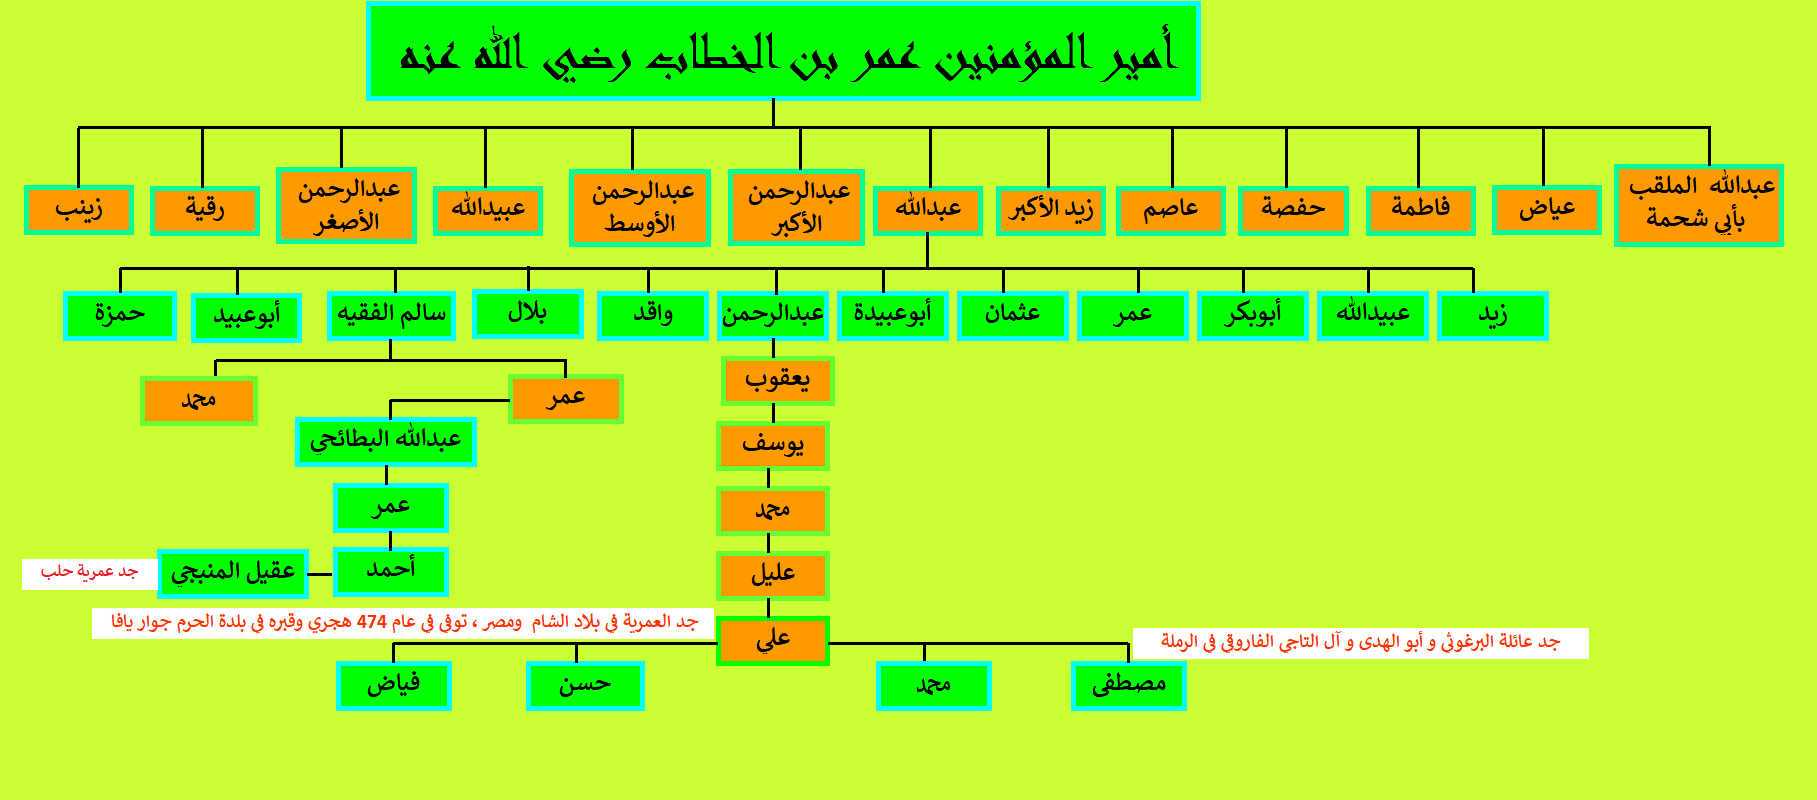
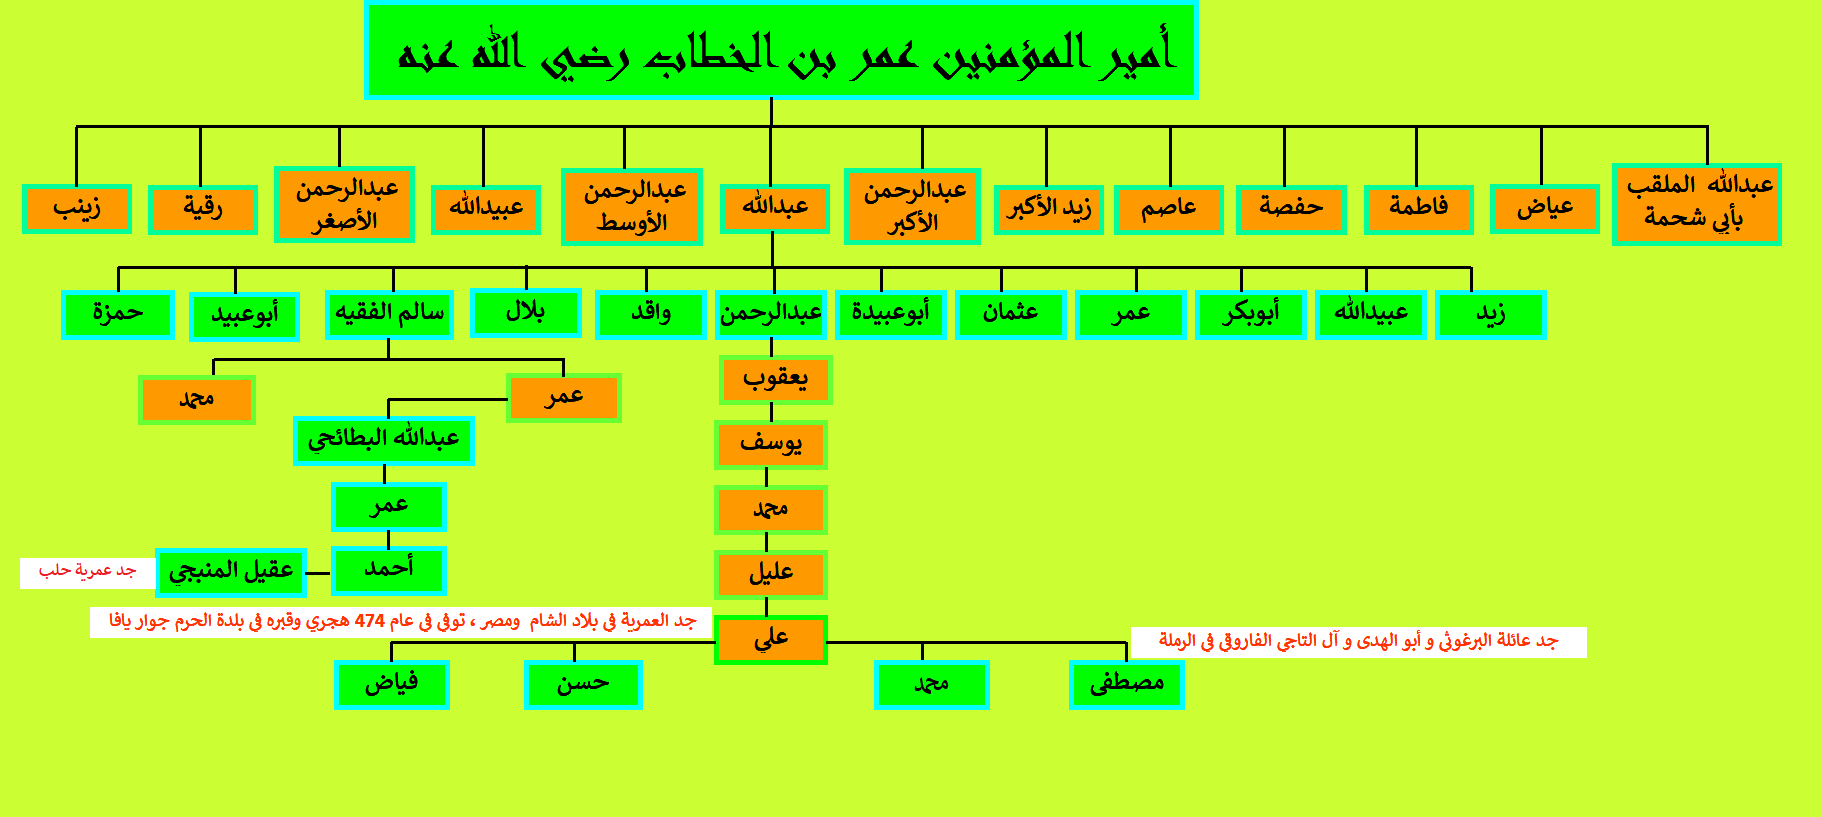
update

Changed region(s): [[0.0, 0.0, 0.9862, 0.9062]]

diff --git a/Omar bin Elkhattab.html b/Omar bin Elkhattab.html
@@ -28,23 +28,28 @@ function FP_getObjectByID(id,o) {//v1.0
 }
 // -->
 </script>
+<style type="text/css">
+.auto-style1 {
+	margin-bottom: 0px;
+}
+</style>
 </head>
 
 <body style="background-color: #CCFF33" onload="FP_preloadImgs(/*url*/'button1688.gif',/*url*/'button1689.gif',/*url*/'button1690.gif',/*url*/'button1A14.gif',/*url*/'button1F10.gif',/*url*/'button1691.gif',/*url*/'button1692.gif',/*url*/'button1693.gif',/*url*/'button1694.gif',/*url*/'button1695.gif',/*url*/'button1696.gif',/*url*/'button1697.gif',/*url*/'button1869.gif',/*url*/'button1870.gif',/*url*/'button2130.gif',/*url*/'button2131.gif',/*url*/'button3598.gif',/*url*/'button3599.gif')">
 
-<div id="layer1" style="position: absolute; width: 90px; height: 25px; z-index: 1; left: 790px; top: 195px">
+<div id="layer1" style="position: absolute; width: 90px; height: 25px; z-index: 1; left: 785px; top: 190px" class="auto-style1">
 	<a href="Iraq.html">
 	<img id="img1" alt="احفاد عاصم" height="18" onmousedown="FP_swapImg(1,0,/*id*/'img1',/*url*/'button1689.gif')" onmouseout="FP_swapImg(0,0,/*id*/'img1',/*url*/'button1698.gif')" onmouseover="FP_swapImg(1,0,/*id*/'img1',/*url*/'button1688.gif')" onmouseup="FP_swapImg(0,0,/*id*/'img1',/*url*/'button1688.gif')" src="button1698.gif" style="border: 0" width="90" /><!-- MSComment="ibutton" fp-style="fp-btn: Metal Capsule 6; fp-font-style: Bold; fp-transparent: 1" fp-title="احفاد عاصم" --></a></div>
-<div id="layer4" style="position: absolute; width: 168px; height: 40px; z-index: 4; left: 175px; top: 560px">
+<div id="layer4" style="position: absolute; width: 168px; height: 40px; z-index: 4; left: 180px; top: 545px">
 	<a href="fayad-bin-ali.html">
 	<img id="img6" alt="جد العمرية في بلاد الشام" height="34" onmousedown="FP_swapImg(1,0,/*id*/'img6',/*url*/'button1A14.gif')" onmouseout="FP_swapImg(0,0,/*id*/'img6',/*url*/'button1699.gif')" onmouseover="FP_swapImg(1,0,/*id*/'img6',/*url*/'button1690.gif')" onmouseup="FP_swapImg(0,0,/*id*/'img6',/*url*/'button1690.gif')" src="button1699.gif" style="border: 0" width="170" /><!-- MSComment="ibutton" fp-style="fp-btn: Metal Capsule 6; fp-font-style: Bold; fp-transparent: 1" fp-title="جد العمرية في بلاد الشام" --></a></div>
-<div id="layer5" style="position: absolute; width: 133px; height: 33px; z-index: 5; left: 360px; top: 560px">
+<div id="layer5" style="position: absolute; width: 133px; height: 33px; z-index: 5; left: 365px; top: 545px">
 	<a href="demashag.html">
 	<img id="img5" alt="آل عبدالهادي" height="27" onmousedown="FP_swapImg(1,0,/*id*/'img5',/*url*/'button1691.gif')" onmouseout="FP_swapImg(0,0,/*id*/'img5',/*url*/'button1E10.gif')" onmouseover="FP_swapImg(1,0,/*id*/'img5',/*url*/'button1F10.gif')" onmouseup="FP_swapImg(0,0,/*id*/'img5',/*url*/'button1F10.gif')" src="button1E10.gif" style="border: 0" width="135" /><!-- MSComment="ibutton" fp-style="fp-btn: Metal Capsule 6; fp-font-style: Bold; fp-transparent: 1" fp-title="آل عبدالهادي" --></a></div>
-<div id="layer6" style="position: absolute; width: 134px; height: 32px; z-index: 6; left: 605px; top: 560px">
+<div id="layer6" style="position: absolute; width: 134px; height: 32px; z-index: 6; left: 605px; top: 545px">
 	<a href="anan.html">
 	<img id="img4" alt="جد السادة العنانية" height="27" onmousedown="FP_swapImg(1,0,/*id*/'img4',/*url*/'button1693.gif')" onmouseout="FP_swapImg(0,0,/*id*/'img4',/*url*/'button1700.gif')" onmouseover="FP_swapImg(1,0,/*id*/'img4',/*url*/'button1692.gif')" onmouseup="FP_swapImg(0,0,/*id*/'img4',/*url*/'button1692.gif')" src="button1700.gif" style="border: 0" width="135" /><!-- MSComment="ibutton" fp-style="fp-btn: Metal Capsule 6; fp-font-style: Bold; fp-transparent: 1" fp-title="جد السادة العنانية" --></a></div>
-<div id="layer7" style="position: absolute; width: 135px; height: 36px; z-index: 7; left: 760px; top: 560px">
+<div id="layer7" style="position: absolute; width: 135px; height: 36px; z-index: 7; left: 760px; top: 545px">
 	<a href="barghooth.html">
 	<img id="img3" alt="جد عائلة البرغوثي" height="27" onmousedown="FP_swapImg(1,0,/*id*/'img3',/*url*/'button1695.gif')" onmouseout="FP_swapImg(0,0,/*id*/'img3',/*url*/'button1701.gif')" onmouseover="FP_swapImg(1,0,/*id*/'img3',/*url*/'button1694.gif')" onmouseup="FP_swapImg(0,0,/*id*/'img3',/*url*/'button1694.gif')" src="button1701.gif" style="border: 0" width="135" /><!-- MSComment="ibutton" fp-style="fp-btn: Metal Capsule 6; fp-font-style: Bold; fp-transparent: 1" fp-title="جد عائلة البرغوثي" --></a></div>
 <div id="layer8" style="position: absolute; width: 120px; height: 29px; z-index: 8; left: 20px; top: 25px">
@@ -56,7 +61,7 @@ function FP_getObjectByID(id,o) {//v1.0
 <div id="layer9" style="position: absolute; width: 95px; height: 25px; z-index: 9; left: 935px; top: 275px">
 	<a href="Emarah-1.html">
 	<img id="img47" alt="قبيلة الامارة" height="19" onmousedown="FP_swapImg(1,0,/*id*/'img47',/*url*/'button1870.gif')" onmouseout="FP_swapImg(0,0,/*id*/'img47',/*url*/'button1871.gif')" onmouseover="FP_swapImg(1,0,/*id*/'img47',/*url*/'button1869.gif')" onmouseup="FP_swapImg(0,0,/*id*/'img47',/*url*/'button1869.gif')" src="button1871.gif" style="border: 0" width="93" /><!-- MSComment="ibutton" fp-style="fp-btn: Metal Capsule 6; fp-font-style: Bold; fp-transparent: 1" fp-title="قبيلة الامارة" --></a></div>
-<div id="layer10" style="position: absolute; width: 117px; height: 38px; z-index: 10; left: 35px; top: 570px">
+<div id="layer10" style="position: absolute; width: 117px; height: 38px; z-index: 10; left: 45px; top: 555px">
 	<a href="Fayyad.html">
 	<img id="img48" alt="المشجر الجامع" height="23" onmousedown="FP_swapImg(1,0,/*id*/'img48',/*url*/'button2131.gif')" onmouseout="FP_swapImg(0,0,/*id*/'img48',/*url*/'button2132.gif')" onmouseover="FP_swapImg(1,0,/*id*/'img48',/*url*/'button2130.gif')" onmouseup="FP_swapImg(0,0,/*id*/'img48',/*url*/'button2130.gif')" src="button2132.gif" style="border: 0" width="115" /><!-- MSComment="ibutton" fp-style="fp-btn: Metal Capsule 6; fp-font-style: Bold; fp-transparent: 1" fp-title="المشجر الجامع" --></a></div>
 <p>
